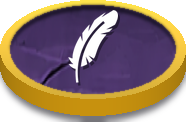
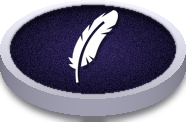
Daily coins: option D, silver for each round, gold kept for the win
Pete picked option D from the coin mocks (2026-09-26).
- Every coin now has a midnight enamel face: brand surface-raised at the
  centre, darkening to background-deep at the rim. It replaces the stone
  face cut from the step slab.
- The white-feather coins have a silver ring and edge.
- The win coin keeps the brand gold ring and edge, so gold only appears
  with the win.

Image sizes are unchanged and the glow is byte-identical. The gold coin's
larger size is still Pete's pick (80, 100 or 120 pt).

Claude-Session: https://claude.ai/code/session_01TxB5WRXMWunrcoTTHjrKMD

diff --git a/tools/art/build_daily_coins.py b/tools/art/build_daily_coins.py
@@ -3,12 +3,13 @@
 Pete's design (2026-09-26): each solved round leaves a coin on the
 courtyard floor between the bottom step and the answer wall, one to four
 with a white feather; the win replaces them with one bigger gold-feather
-coin. A coin is a disc seen from above at the floor's angle: a stone face
-(the step slab's top face, ledge.png) inside a gold ring, on a gold edge,
-with a soft shadow where it meets the floor. Feathers are the game's own
+coin. A coin is a disc seen from above at the floor's angle: a midnight
+enamel face inside a metal ring, on a metal edge, with a soft shadow where it
+meets the floor. Option D (Pete, 2026-09-26): the white-feather coins are
+silver and gold is kept for the win's coin, whose gold is the brand golds
+(#F5C842, amber #C8920E, gold-dark #8F6F18). Feathers are the game's own
 feather art (assets/ui/feather-life-filled.png, feather-gold-reward.png),
-standing upright on the face like an emblem. Colours are the brand golds
-(#F5C842, amber #C8920E, gold-dark #8F6F18).
+standing upright on the face like an emblem.
 
 Output is 3x: white coin 62 x 40 pt -> 186 x 120 px; gold 80 x 52 pt ->
 240 x 156 px. The coin's contact point with the floor is the bottom of the
@@ -26,19 +27,24 @@ import numpy as np
 from PIL import Image, ImageDraw, ImageFilter
 
 ROOT = Path(__file__).resolve().parents[2]
-LEDGE = ROOT / "assets/images/dailycastle/ledge.png"
 WHITE_FEATHER = ROOT / "assets/ui/feather-life-filled.png"
 GOLD_FEATHER = ROOT / "assets/ui/feather-gold-reward.png"
 OUT_DIR = ROOT / "assets/images/dailycastle"
 
-SLAB = (24, 96, 1309, 292)
-SEAM = 100
 GOLD = (245, 200, 66)
 AMBER = (200, 146, 14)
 GOLD_DARK = (143, 111, 24)
+# Metals: (ring, edge highlight, edge shadow). Pete, 2026-09-26 (option D): the
+# white-feather coins are silver; gold is kept for the win's coin alone.
+GOLD_METAL = (GOLD, AMBER, GOLD_DARK)
+SILVER_METAL = ((214, 214, 228), (160, 160, 178), (88, 88, 104))
+# Enamel face: brand surface-raised at the centre darkening to background-deep
+# (#211B4A family -> #0B0920) at the rim, with a faint grain.
+FACE_CENTRE = (46, 36, 88)
+FACE_RIM = (14, 11, 32)
 FACE_RATIO = 0.53      # ellipse height / width: the floor's viewing angle
 EDGE_FRAC = 0.09       # coin thickness as a fraction of its width
-RING_FRAC = 0.055      # gold ring width as a fraction of its width
+RING_FRAC = 0.055      # ring width as a fraction of its width
 SHADOW_PAD = 6         # px of transparent margin under the edge for the shadow
 
 
@@ -48,7 +54,18 @@ def ellipse_mask(size, box, blur=0.0):
     return m.filter(ImageFilter.GaussianBlur(blur)) if blur else m
 
 
-def coin(width_px: int, feather_path: Path, feather_frac: float) -> Image.Image:
+def enamel_face(width: int, height: int) -> Image.Image:
+    """Midnight enamel: radial from FACE_CENTRE to FACE_RIM, fixed-seed grain."""
+    y, x = np.mgrid[0:height, 0:width].astype(np.float32)
+    r = np.clip(np.hypot((x + 0.5) / width * 2 - 1, (y + 0.5) / height * 2 - 1), 0, 1)[..., None] ** 1.4
+    rgb = np.array(FACE_CENTRE, np.float32) * (1 - r) + np.array(FACE_RIM, np.float32) * r
+    rgb += np.random.default_rng(1).normal(0, 6, (height, width, 1))
+    alpha = np.full((height, width, 1), 255, np.float32)
+    return Image.fromarray(np.clip(np.concatenate([rgb, alpha], 2), 0, 255).astype(np.uint8), "RGBA")
+
+
+def coin(width_px: int, feather_path: Path, feather_frac: float, metal=GOLD_METAL) -> Image.Image:
+    ring_rgb, edge_hi, edge_lo = metal
     face_h = round(width_px * FACE_RATIO)
     edge = round(width_px * EDGE_FRAC)
     h = face_h + edge + SHADOW_PAD
@@ -64,7 +81,7 @@ def coin(width_px: int, feather_path: Path, feather_frac: float) -> Image.Image:
     edge_layer = Image.new("RGBA", size)
     x = np.linspace(0, 1, width_px)[None, :, None]
     shade = 0.62 + 0.38 * np.sin(np.pi * x) ** 0.6
-    base = np.array(AMBER, np.float32)[None, None, :] * shade + np.array(GOLD_DARK, np.float32)[None, None, :] * (1 - shade) * 0.6
+    base = np.array(edge_hi, np.float32)[None, None, :] * shade + np.array(edge_lo, np.float32)[None, None, :] * (1 - shade) * 0.6
     edge_rgb = np.broadcast_to(base, (h, width_px, 3)).copy()
     edge_layer = Image.fromarray(np.clip(edge_rgb, 0, 255).astype(np.uint8), "RGB").convert("RGBA")
     sweep = Image.new("L", size, 0)
@@ -74,22 +91,17 @@ def coin(width_px: int, feather_path: Path, feather_frac: float) -> Image.Image:
     edge_layer.putalpha(sweep)
     out.alpha_composite(edge_layer)
 
-    # Gold ring (the face's rim), lit from the top.
+    # The ring (the face's rim), lit from the top.
     ring = Image.new("RGBA", size)
     rv = np.linspace(1.15, 0.8, h)[:, None, None]
-    ring_rgb = np.clip(np.array(GOLD, np.float32)[None, None, :] * rv, 0, 255)
+    ring_rgb = np.clip(np.array(ring_rgb, np.float32)[None, None, :] * rv, 0, 255)
     ring = Image.fromarray(np.broadcast_to(ring_rgb, (h, width_px, 3)).astype(np.uint8), "RGB").convert("RGBA")
     ring.putalpha(ellipse_mask(size, (0, 0, width_px - 1, face_h - 1)))
     out.alpha_composite(ring)
 
-    # Stone face inside the ring: the step slab's top face, a touch darker so
-    # the feather reads.
+    # Enamel face inside the ring.
     r = round(width_px * RING_FRAC)
-    slab = Image.open(LEDGE).convert("RGBA").crop(SLAB)
-    top = slab.crop((300, 8, 700, SEAM - 8)).resize((width_px, face_h), Image.LANCZOS)
-    t = np.asarray(top).astype(np.float32)
-    t[..., :3] *= 0.72
-    face = Image.fromarray(np.clip(t, 0, 255).astype(np.uint8), "RGBA")
+    face = enamel_face(width_px, face_h)
     face.putalpha(ellipse_mask((width_px, face_h), (r, round(r * FACE_RATIO), width_px - 1 - r, face_h - 1 - round(r * FACE_RATIO)), blur=0.6))
     out.alpha_composite(face, (0, 0))
     # inner shadow under the ring's top lip
@@ -125,8 +137,8 @@ def glow(width: int, height: int) -> Image.Image:
 
 
 def main() -> None:
-    white = coin(186, WHITE_FEATHER, 0.74)
-    gold = coin(240, GOLD_FEATHER, 0.74)
+    white = coin(186, WHITE_FEATHER, 0.74, SILVER_METAL)
+    gold = coin(240, GOLD_FEATHER, 0.74, GOLD_METAL)
     white.save(OUT_DIR / "coin_feather.png", optimize=True)
     gold.save(OUT_DIR / "coin_gold.png", optimize=True)
     halo = glow(528, 294)   # the gold coin (240 x 155) at 2.2 x 1.9
